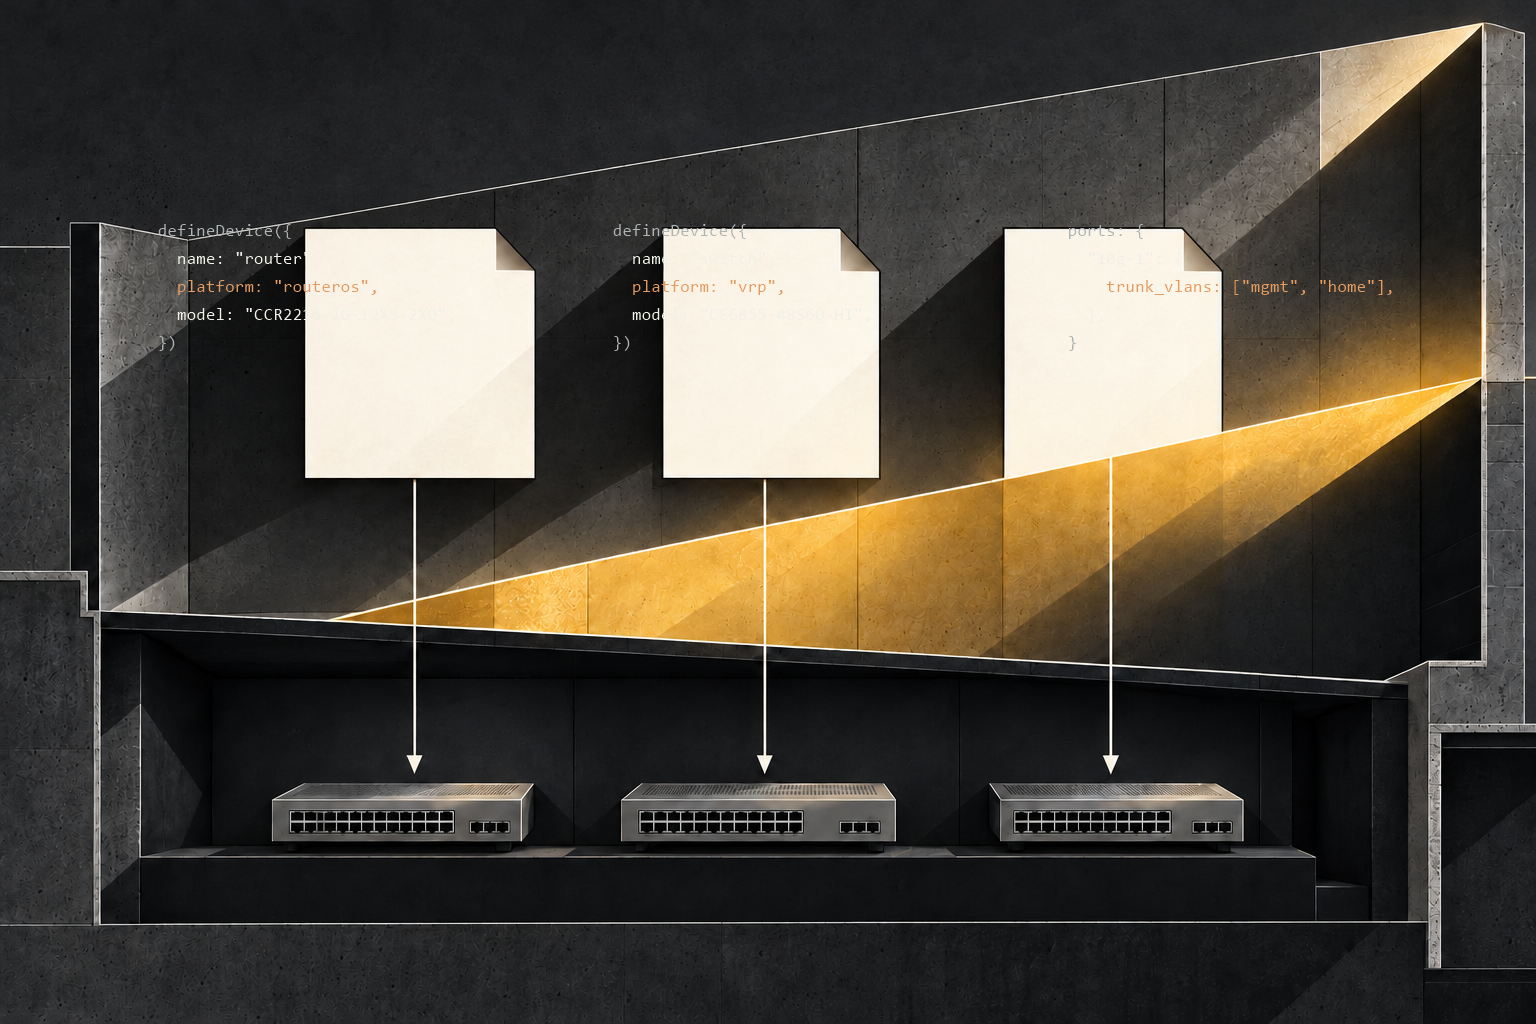
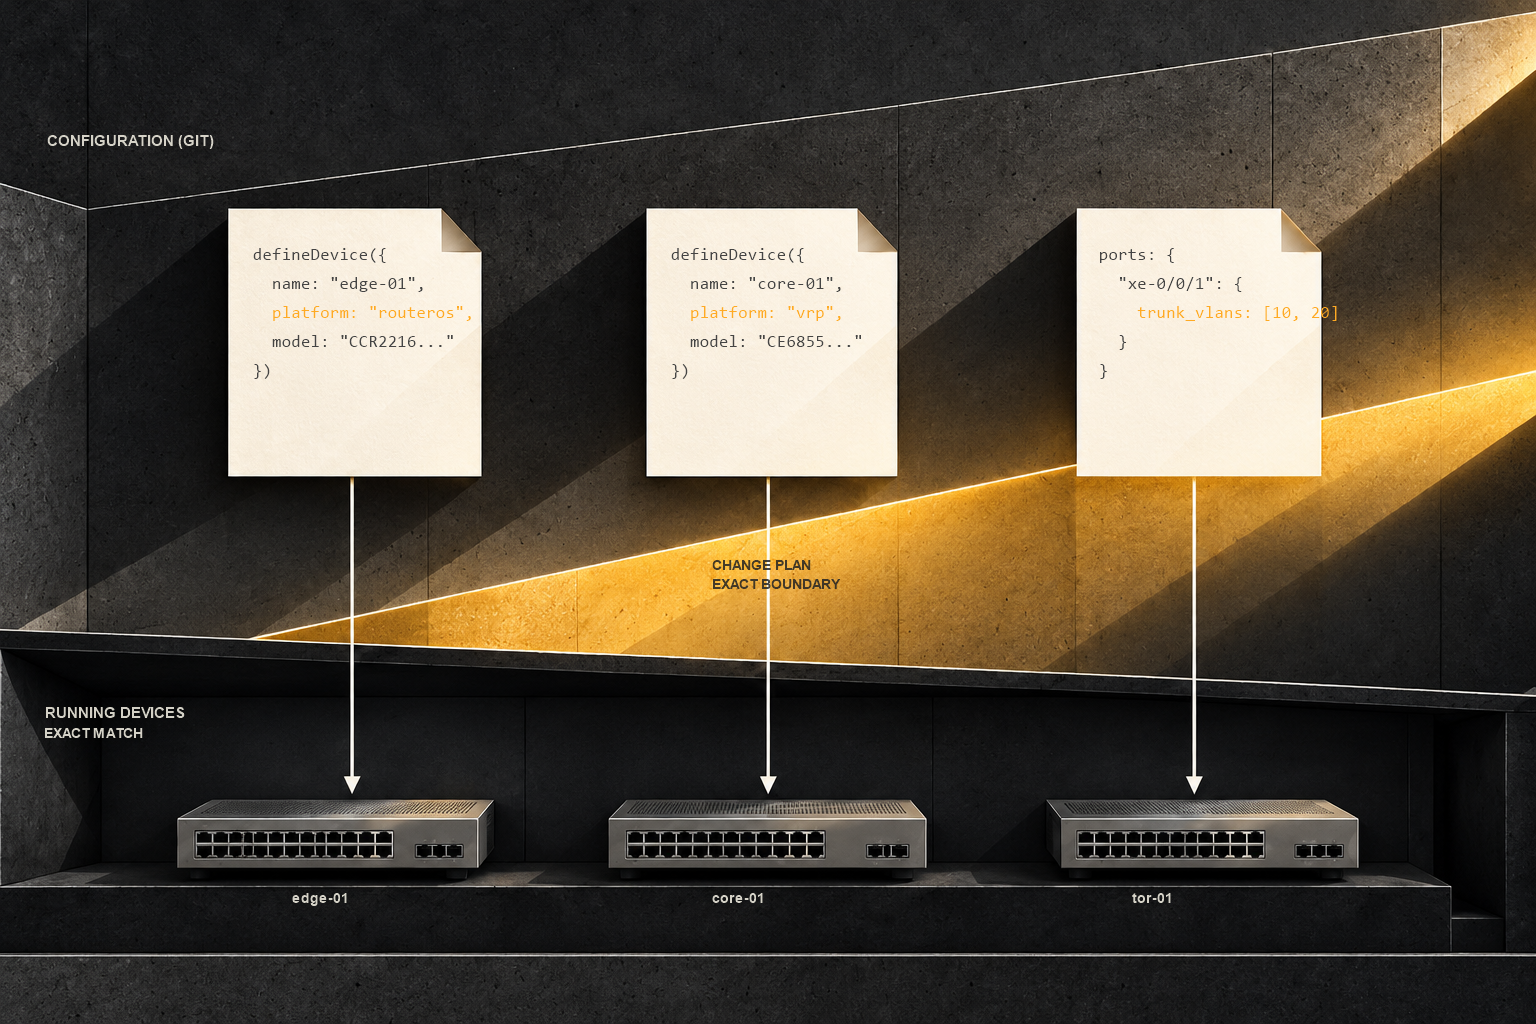
fix(docs): match the approved sectional hero

diff --git a/docs/.vitepress/theme/Home.vue b/docs/.vitepress/theme/Home.vue
@@ -577,7 +577,7 @@ h2 {
     grid-template-columns: minmax(430px, 0.92fr) minmax(540px, 1.35fr);
     align-items: stretch;
     max-width: none;
-    min-height: 570px;
+    min-height: 520px;
     border-block: 1px solid var(--rule);
 }
 
@@ -644,7 +644,7 @@ h1 span {
 }
 
 .section-model img {
-    object-fit: cover;
+    object-fit: contain;
     object-position: center;
 }
 
@@ -804,7 +804,8 @@ h2 {
     }
 
     .section-model {
-        min-height: 520px;
+        min-height: 0;
+        aspect-ratio: 3 / 2;
         border-top: 1px solid var(--rule);
         border-left: 0;
     }
@@ -840,7 +841,7 @@ h2 {
     }
 
     .section-model {
-        min-height: 650px;
+        min-height: 0;
     }
 
     .section-model img {
